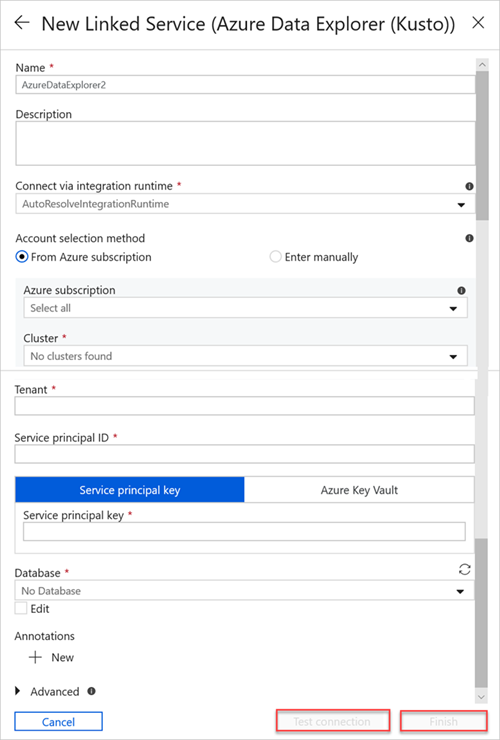
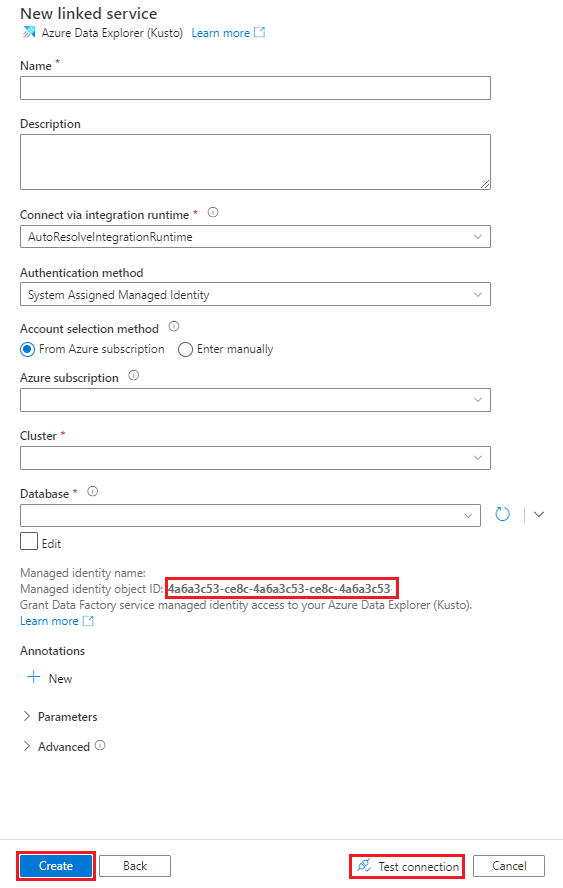
update adf linked service

diff --git a/data-explorer/data-factory-load-data.md b/data-explorer/data-factory-load-data.md
@@ -156,7 +156,24 @@ To create the Azure Data Explorer linked service, do the following steps:
 
    a. In the **Name** box, enter a name for the Azure Data Explorer linked service.
 
-   b. Under **Account selection method**, choose one of the following options: 
+   b. Under **Authentication method**, choose **System Assigned Managed Identity** or **Service Principal**.
+
+    * To Authenticate using a Managed Identity, grant the Managed Identity access to the Database by using the **Managed identity name** or **Managed identity object ID**.
+
+    * To Authenticate using a Service Principal:
+
+        1. In the **Tenant** box, enter the tenant name.
+
+        2. In the **Service principal ID** box, enter the service principal ID.
+
+        3. Select **Service principal key** and then, in the **Service principal key** box, enter the value for the key.
+
+    > [!NOTE]
+    > * The service principal is used by Azure Data Factory to access the Azure Data Explorer service. To create a service principal, go to [create an Azure Active Directory (Azure AD) service principal](/azure-stack/operator/azure-stack-create-service-principals#manage-an-azure-ad-service-principal).
+    > * To assign permissions to a Managed Identity or a Service Principal or , see [manage permissions](manage-database-permissions.md).
+    > * Do not use the Azure Key Vault method or User Assigned Managed Identity.
+
+   d. Under **Account selection method**, choose one of the following options: 
 
     * Select **From Azure subscription** and then, in the drop-down lists, select your **Azure subscription** and your **Cluster**. 
 
@@ -166,20 +183,13 @@ To create the Azure Data Explorer linked service, do the following steps:
 
     * Select **Enter manually**, and then enter your **Endpoint**.
 
-   c. In the **Tenant** box, enter the tenant name.
+   e. In the **Database** drop-down list, select your database name. Alternatively, select the **Edit** check box, and then enter the database name.
 
-   d. In the **Service principal ID** box, enter the service principal ID.
-
-   e. Select **Service principal key** and then, in the **Service principal key** box, enter the value for the key.
-
-   f. In the **Database** drop-down list, select your database name. Alternatively, select the **Edit** check box, and then enter the database name.
+   f. To test the linked service connection you created, select **Test Connection**. If you can connect to your linked service, the pane displays a green checkmark and a **Connection successful** message.
 
    g. To test the linked service connection you created, select **Test Connection**. If you can connect to your linked service, the pane displays a green checkmark and a **Connection successful** message.
 
-   h. Select **Finish** to complete the linked service creation.
-
-    > [!NOTE]
-    > The service principal is used by Azure Data Factory to access the Azure Data Explorer service. To create a service principal, go to [create an Azure Active Directory (Azure AD) service principal](/azure-stack/operator/azure-stack-create-service-principals#manage-an-azure-ad-service-principal). Do not use the Azure Key Vault method. To assign permissions to the service principal, see [manage permissions](manage-database-permissions.md).
+   h. Select **Create** to complete the linked service creation.
 
 #### Configure the Azure Data Explorer data connection
 
